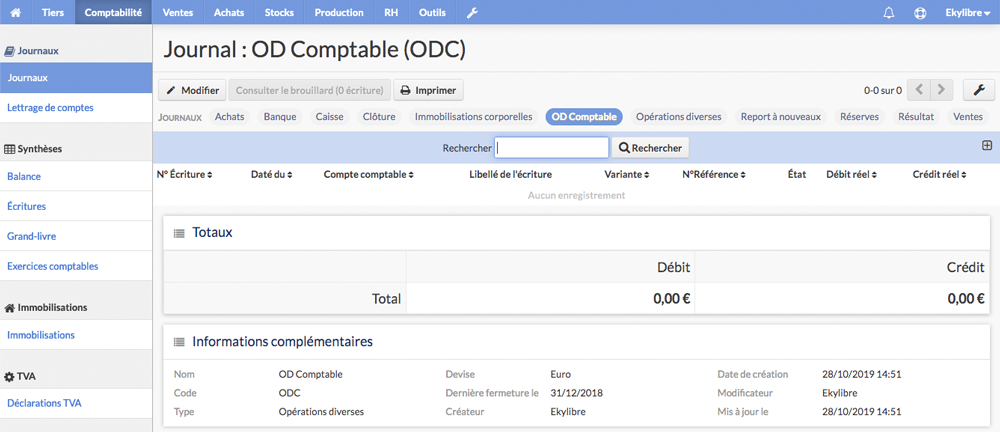
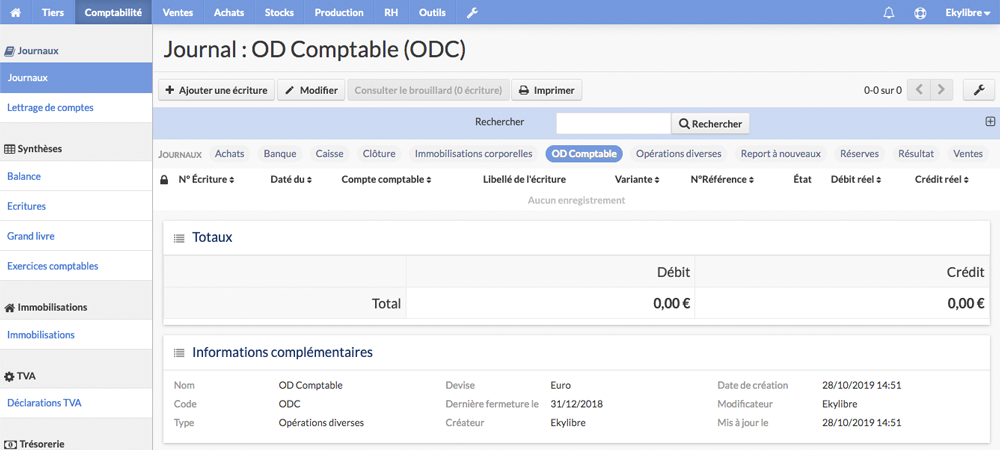
Màj capt. Journaux + new PDF

diff --git a/content/fr/chapitre6.html b/content/fr/chapitre6.html
@@ -1088,8 +1088,36 @@
       </div>
 	  <h6>Guide de prise en main • Achats • Enregistrer un avoir</h6>
       <a class="slice-process" id="avoir-fact"></a>
-      <p align="center" class="texte aerateur procedure">3 – Procédure pour enregistrer un avoir dans le journal des achats
-      </p>
+      <p align="center" class="texte aerateur procedure">3 – Procédure pour enregistrer un avoir sur un achat</p>
+	  <div id="cont2" class="niveau">
+         <div id="gauge2" class="jauge"></div>
+      </div>
+      <script>
+         document.addEventListener("DOMContentLoaded", function(event) {
+          var gNode1 = document.createElement('div');
+          gNode1.setAttribute("class", "jauge");
+          var gauge1 = new JustGage({
+              id: "gauge2",
+              value: 2,
+              width: 150,
+              height: 110,
+              min: 0,
+              max: 5,
+              decimals: 0,
+              customSectors: [{
+         color : "#ffff00",
+          	  lo : 2,
+         hi : 3
+         	  }],
+              pointer: true,
+              startAnimationTime: 1,
+          	  startAnimationType: "linear",
+          	  refreshAnimationTime: 1,
+          	  refreshAnimationType: "linear",
+              hideMinMax: true,
+          });
+         });
+      </script>
 	  <p class="texte">L'écriture comptable pour enregistrer l'avoir obtenu de la part d'un fournisseur peut faire suite à un retour des marchandises achetées ou à une remise. Les explications délivrées ci-dessous s'appliquent lorsque qu'une facture d'achat est déjà payée dans sa totalité par un ou plusieurs décaissements, et qu'il s'avère nécessaire de procéder à un régularisation.</p>
 	  <div class="info-fond aerateur-haut aerateur-bas">
          <div class="floating-box-info">

diff --git a/content/fr/demarrage.html b/content/fr/demarrage.html
@@ -16,7 +16,7 @@
       <h1 align="center" class="texte majuscule aerateur">Guide de prise en main</h1>
       <p align="center"><img src="../images/accueil/icone-doc.png" alt="Documentation Ekylibre" height="100px"></p>
       <p align="center"><img src="../images/accueil/logos-eky.png" alt="Logos Ekylibre" height="80px"></p>
-      <p class="texte">Ce guide a pour but d'aider le nouvel utilisateur à configurer rapidement et correctement les applications développées par Ekylibre &#40;sauf <a href="https://doc.clic.farm/" target="_blank" class="avoid-clicks"><strong>Clic</strong>&#38;Farm</a>&#41; pour son exploitation agricole et de commencer à les utiliser.<br />Cette documentation a été mise à jour le 2 avril 2021. La version au format PDF est datée du 24 mars 2021.</p>
+      <p class="texte">Ce guide a pour but d'aider le nouvel utilisateur à configurer rapidement et correctement les applications développées par Ekylibre &#40;sauf <a href="https://doc.clic.farm/" target="_blank" class="avoid-clicks"><strong>Clic</strong>&#38;Farm</a>&#41; pour son exploitation agricole et de commencer à les utiliser.<br />Cette documentation a été mise à jour le 6 avril 2021. La version au format PDF est datée du 6 avril 2021.</p>
       <div class="info-fond aerateur-haut aerateur-bas">
          <div class="floating-box-info">
             <img src="../images/commun/info.svg" width="100" alt="Info"/>

diff --git a/content/fr/chapitre5.html b/content/fr/chapitre5.html
@@ -730,7 +730,6 @@
          </p>
          <p>Cliquez sur <span class="btn-blue">Modifier</span> pour valider la personnalisation et l'activation de vos préférences comptables.</p>
       </div>
-      <div class="saut-page"></div>
       <div class="warn-fond aerateur-haut">
          <div class="floating-box-warn">
             <img src="../images/commun/attention.svg" width="100" alt="Attention"/>
@@ -1096,6 +1095,7 @@
          </p>
       </div>
       <p class="texte">À la création de votre ferme, aucun exercice comptable n'est ouvert. Si vous souhaitez gérer votre comptabilité et/ou enregistrer vos activités commerciales dans <strong>Eky</strong>agri, la création d'un premier exercice comptable est requis.</p>
+	  <div class="saut-page"></div>
       <div class="warn-fond aerateur-haut aerateur-bas">
          <div class="floating-box-warn">
             <img src="../images/commun/attention.svg" width="100" alt="Attention"/>
@@ -1107,7 +1107,6 @@
             <img src="../images/chapitre5/verroux-exo.png" class="contour-img" alt="Verrouillage création exercice" data-action="zoom" />
          </div>
       </div>
-      <div class="saut-page"></div>
       <div class="warn-fond aerateur-haut aerateur-bas">
          <div class="floating-box-warn">
             <img src="../images/commun/attention.svg" width="100" alt="Attention"/>
